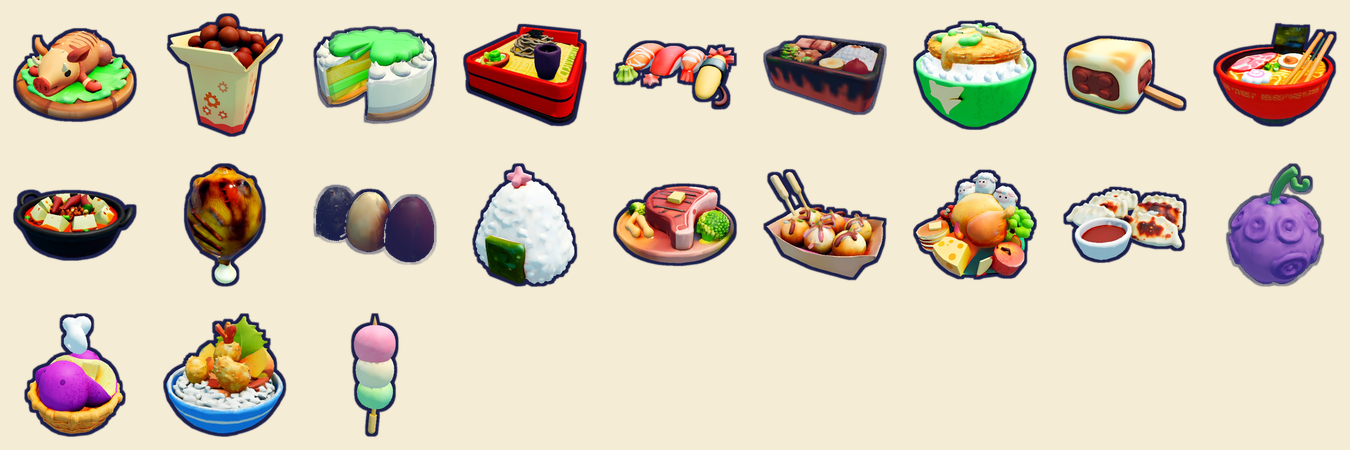
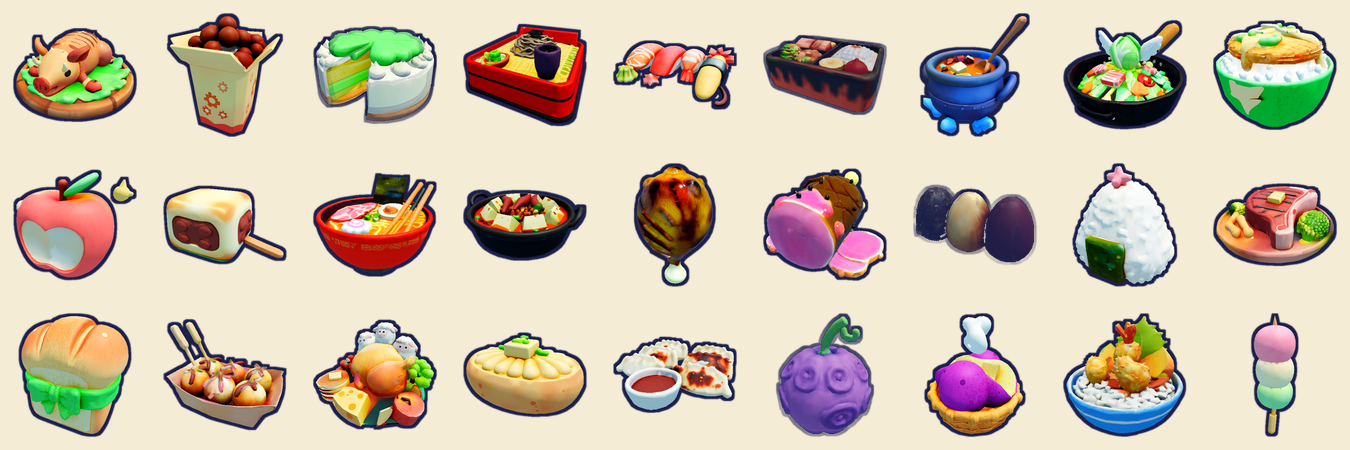
Plan 13 phase B, batch 4: the foods of worlds 8 and 9
Six textured food models with icons (27 of 51 done). The potato was remade
once; the ham's texture was redone because it came out pink.

diff --git a/design/plan/13-food-and-training-v2.md b/design/plan/13-food-and-training-v2.md
@@ -444,3 +444,11 @@ rebirth Power gates do not change.
 
 **Checkpoint, 2026-11-26:** phase A and food batches 1 to 3 committed (dfa0551) and saved as place version
 921 ("Plan 13: rules + foods of worlds 1-7"). Not pushed, not published. Not a section snapshot: no tag.
+
+**Phase B, batch 4 (worlds 8 and 9, six foods), 2026-11-26: built, awaiting the owner's look.**
+- Isekai Apple, Flying Cabbage Stir-fry, Floor Boss Stew, Scout Ration Bread: one try each. Steamed Potato:
+  two (the first was a pale lump). Officer's Ham: came pink like raw sausage, texture redone with
+  generate_texture. 27 of 51 foods have their own model and icon.
+- Trap: generate_texture hands the model back without its PrimaryPart and turned; set the PrimaryPart again
+  before install_foods.py. A capture comes back as a blank dark frame when the display has blanked during a
+  wait: run tools/studio/front.ps1 right before it.
